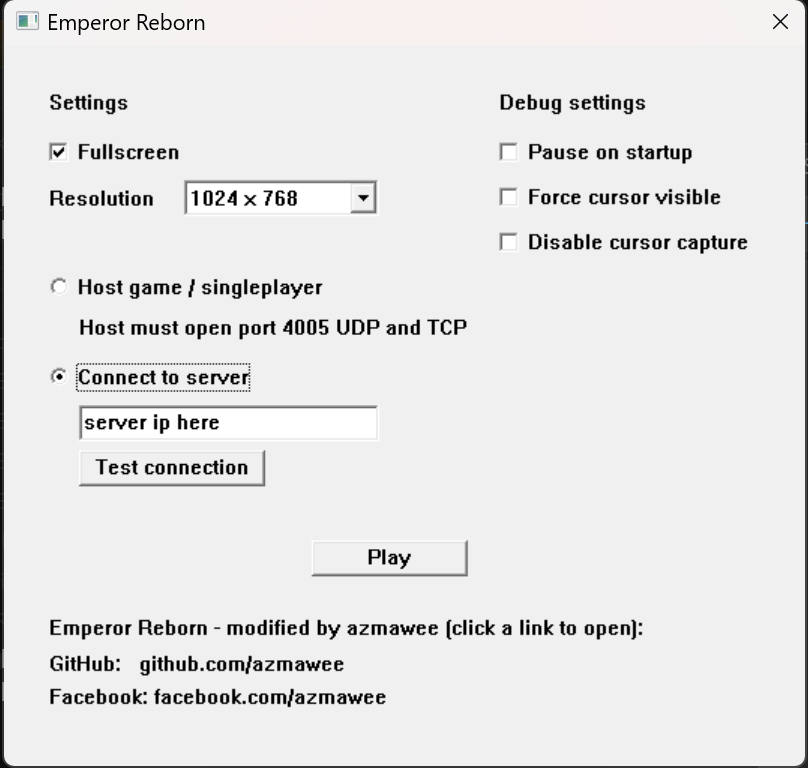
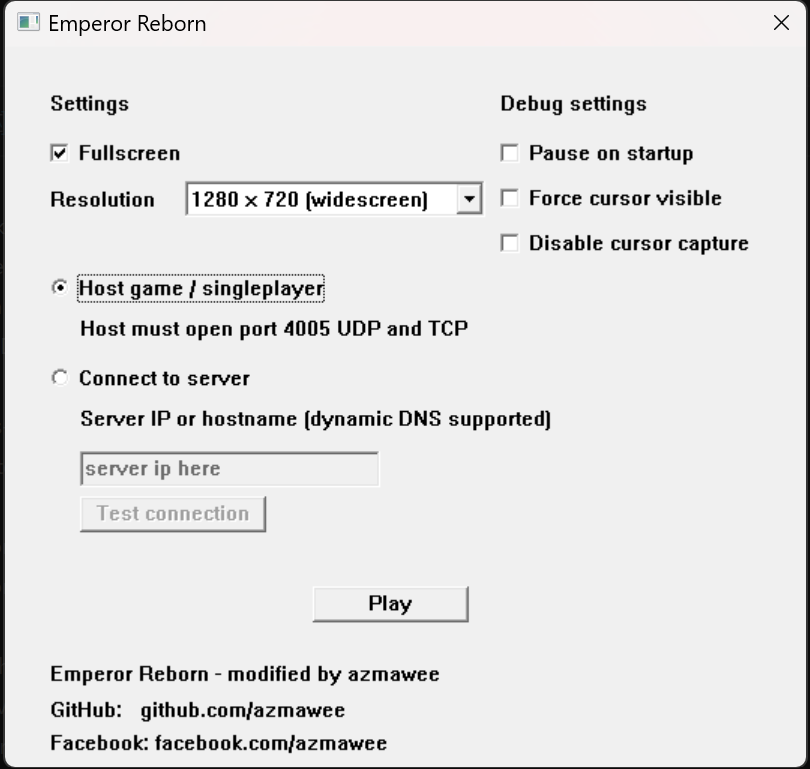
site: lead with widescreen, add real screenshots
Front the launcher page and readme with the 16:9 widescreen work instead of
4:3-only scaling, list the widescreen resolutions, and note the new 1280x720
default. Swapped in actual in-game and menu screenshots.

diff --git a/index.md b/index.md
@@ -1,12 +1,14 @@
 ---
 title: "Emperor Reborn - Emperor: Battle for Dune with true widescreen on Windows 10/11"
 description: "Play Emperor: Battle for Dune on Windows 10 and 11 with real 16:9 widescreen, fullscreen, original resolutions, and multiplayer over direct IP or DDNS."
-image: /screenshots/gameplay-windows11.png
+image: /screenshots/gameplay-2.png
 ---
 
 # Emperor Reborn
 
-A launcher I wrote to play *Emperor: Battle for Dune* on modern Windows.
+A launcher I wrote to play *Emperor: Battle for Dune* on modern Windows, now with real 16:9 widescreen.
+
+![Emperor: Battle for Dune running in 16:9 widescreen]({{ "/screenshots/gameplay-2.png" | relative_url }})
 
 [**Download the latest release**](https://github.com/azmawee/EmperorReborn/releases/latest)
 &nbsp;|&nbsp;
@@ -33,6 +35,8 @@ widens the view: pick a 16:9 resolution and the battlefield renders at the real 
 stretching, no black bars. The harder half was the interface, and it is done too: the in-game
 sidebar, the cursor, edge scrolling and the menus all sit where they should at 16:9. As far as I can
 tell nobody had pulled off real widescreen on this game in the 25 years since it came out.
+
+![The main menu in 16:9 widescreen]({{ "/screenshots/menu.png" | relative_url }})
 
 **Fullscreen scaling.** Pick a resolution and it fills the monitor instead of pillarboxing. On a 4K
 screen the game looks like a real fullscreen game again instead of a postage stamp.

diff --git a/readme.md b/readme.md
@@ -6,6 +6,8 @@ A launcher I wrote to play *Emperor: Battle for Dune* (Westwood, 2001) on Window
 ![License](https://img.shields.io/badge/license-MIT--0-green)
 ![Build](https://img.shields.io/badge/build-Visual%20Studio%202022%20%7C%20x86-5C2D91?logo=visualstudio)
 
+![Emperor: Battle for Dune running in 16:9 widescreen](screenshots/gameplay-2.png)
+
 I wanted to play Emperor again and ran into the usual problems with a 25-year-old game on modern
 Windows: the installer fights the OS, and even once it runs the game sits in a small box in the
 middle of the monitor. Multiplayer has been dead since Westwood Online shut down.